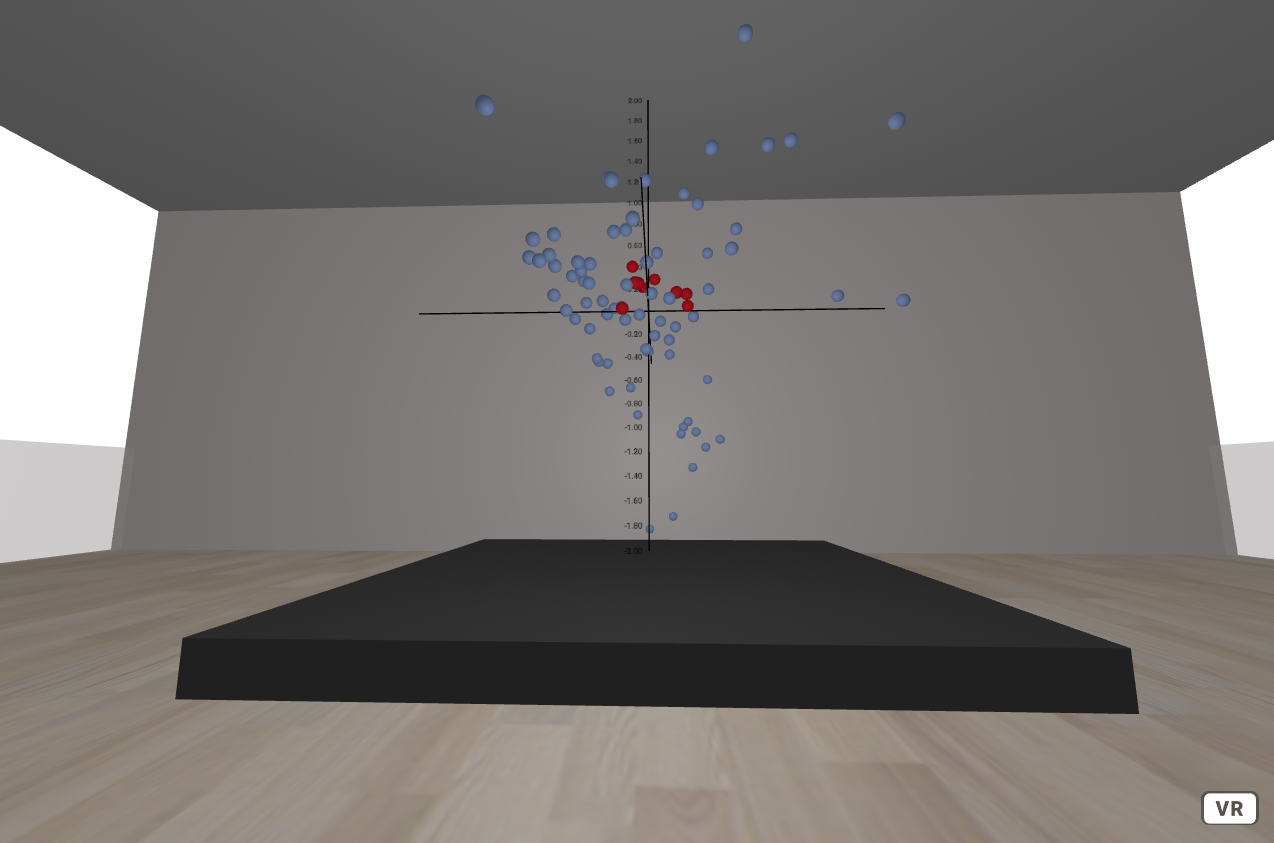
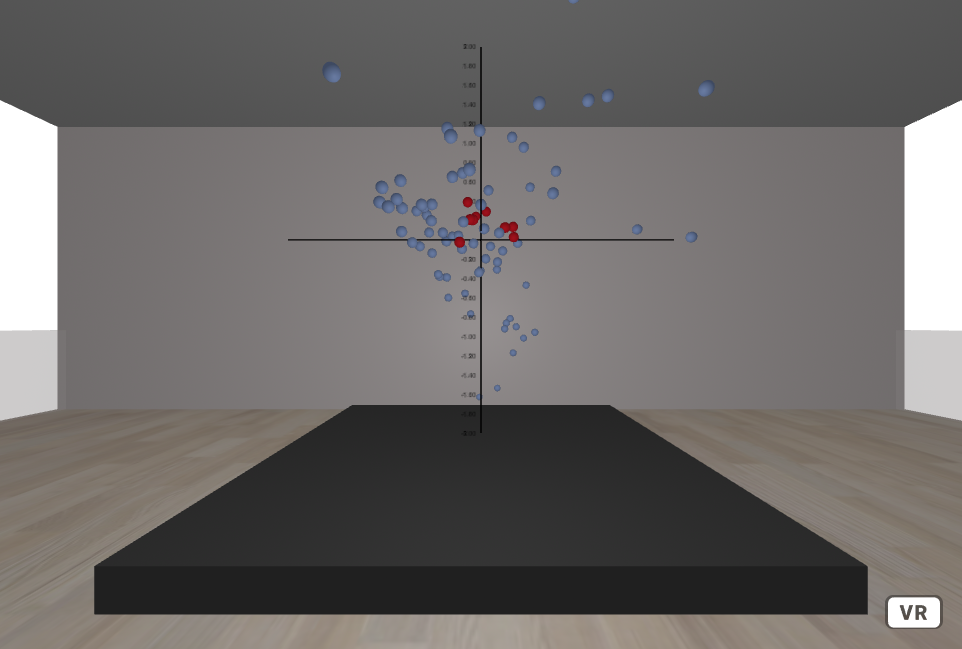
more floor textures for demos

diff --git a/MultipleGraphics.html b/MultipleGraphics.html
@@ -22,11 +22,11 @@
     <a-scene >
       
       <a-entity id="lounge" position="0 4 0" lounge="width: 20; depth: 15; height: 5;
-                            floorTexture: assets/floor-texture.jpg">
+          floorTexture: assets/floor-texture.jpg">
 
       <!-- Bubbles data -->
         
-        <a-entity position="-5 2 2" rotation ="0 90 0" lounge-plinth="width: 4; depth: 4; height: 0.25" lounge-staydown>
+        <a-entity position="-5 2 -3" lounge-plinth="width: 4; depth: 4; height: 0.25" lounge-staydown>
             <a-entity id="graphic1" bubbles-simplified='legend: true; legend_scale:0.1; axis:false; radiusMax: 0.05;  heightMax:2; lengthMax:2; widthMax:2; data:[]; dataMatrix:[];
                 x_axis: 0; z_axis: 2; height: 1' position="0 2.25 0" > 
             </a-entity>
@@ -36,7 +36,7 @@
                 x_axis: 0; z_axis: 2; height: 1' position="0 2.25 0" > 
             </a-entity>
         </a-entity>
-        <a-entity position="5 2 2" rotation ="0 -90 0" lounge-plinth="width: 4; depth: 4; height: 0.25" lounge-staydown>
+        <a-entity position="5 2 -3" lounge-plinth="width: 4; depth: 4; height: 0.25" lounge-staydown>
             <a-entity id="graphic3" bubbles-simplified='legend: true; legend_scale:0.1; axis:false; radiusMax: 0.05;  heightMax:2; lengthMax:2; widthMax:2; data:[]; dataMatrix:[];
                 x_axis: 0; z_axis: 2; height: 1' position="0 2.25 0" > 
             </a-entity>

diff --git a/index.html b/index.html
@@ -56,7 +56,7 @@
         <h3>Single Graphic</h3>
       </li>
       <li>
-        <a href="MultipleGraphics.html" style="background-image: url(assets/MultipleGraphics.png)"></a>
+        <a href="MultipleGraphics.html" style="background-image: url(assets/MultiGraphs.png)"></a>
         <h3>Multiple Graphics with no selector</h3>
       </li>
     </ul>
@@ -76,12 +76,12 @@
     <h2>Multiple Graphics with mirror component</h2>
     <ul>
       <li>
-        <a href="MultiGraphs-Mirror.html" style="background-image: url(assets/MultipleGraphics.png)"></a>
+        <a href="MultiGraphs-Mirror.html" style="background-image: url(assets/MultiGraphsMirror.png)"></a>
         <h3>Mirror component next to each graphic</h3>
       </li>
 
       <li>
-        <a href="MultiGraphs-Mirror2.html" style="background-image: url(assets/MultipleGraphics.png)"></a>
+        <a href="MultiGraphs-Mirror2.html" style="background-image: url(assets/MultiGraphsMirror2.png)"></a>
         <h3>Mirror component with position previously selected</h3>
       </li>
     </ul>

diff --git a/Buttons.html b/Buttons.html
@@ -23,8 +23,7 @@
       <!--Environment-->
       
       <a-entity id="lounge" position="0 4 0" lounge="width: 15; depth: 10; height: 5;
-                            east: barrier;west: barrier;
-                            floorTexture: assets/floor-texture.jpg">
+            floorTexture: assets/floor-texture3.jpg;wallColor:#C8AE7D;west:glass;east:glass">
 
       <!-- Bubbles data -->
         

diff --git a/Buttons-Mirror.html b/Buttons-Mirror.html
@@ -23,7 +23,7 @@
       
       <a-entity id="lounge" position="0 4 0" lounge="width: 15; depth: 10; height: 5;
                             east:barrier;west:barrier;
-                            floorTexture: assets/floor-texture.jpg">
+                            floorTexture: assets/floor-texture3.jpg;wallColor:#C8AE7D;west:glass;east:glass">
 
       <!-- Bubbles data -->
         

diff --git a/MultiGraphs-Mirror.html b/MultiGraphs-Mirror.html
@@ -22,7 +22,7 @@
     <a-scene >
       
       <a-entity id="lounge" position="0 4 0" lounge="width: 25; depth: 15; height: 5;
-                            floorTexture: assets/floor-texture.jpg">
+                            floorTexture: assets/floor-texture7.jpg;west:glass;east:glass">
 
       <!-- Bubbles data -->
         
